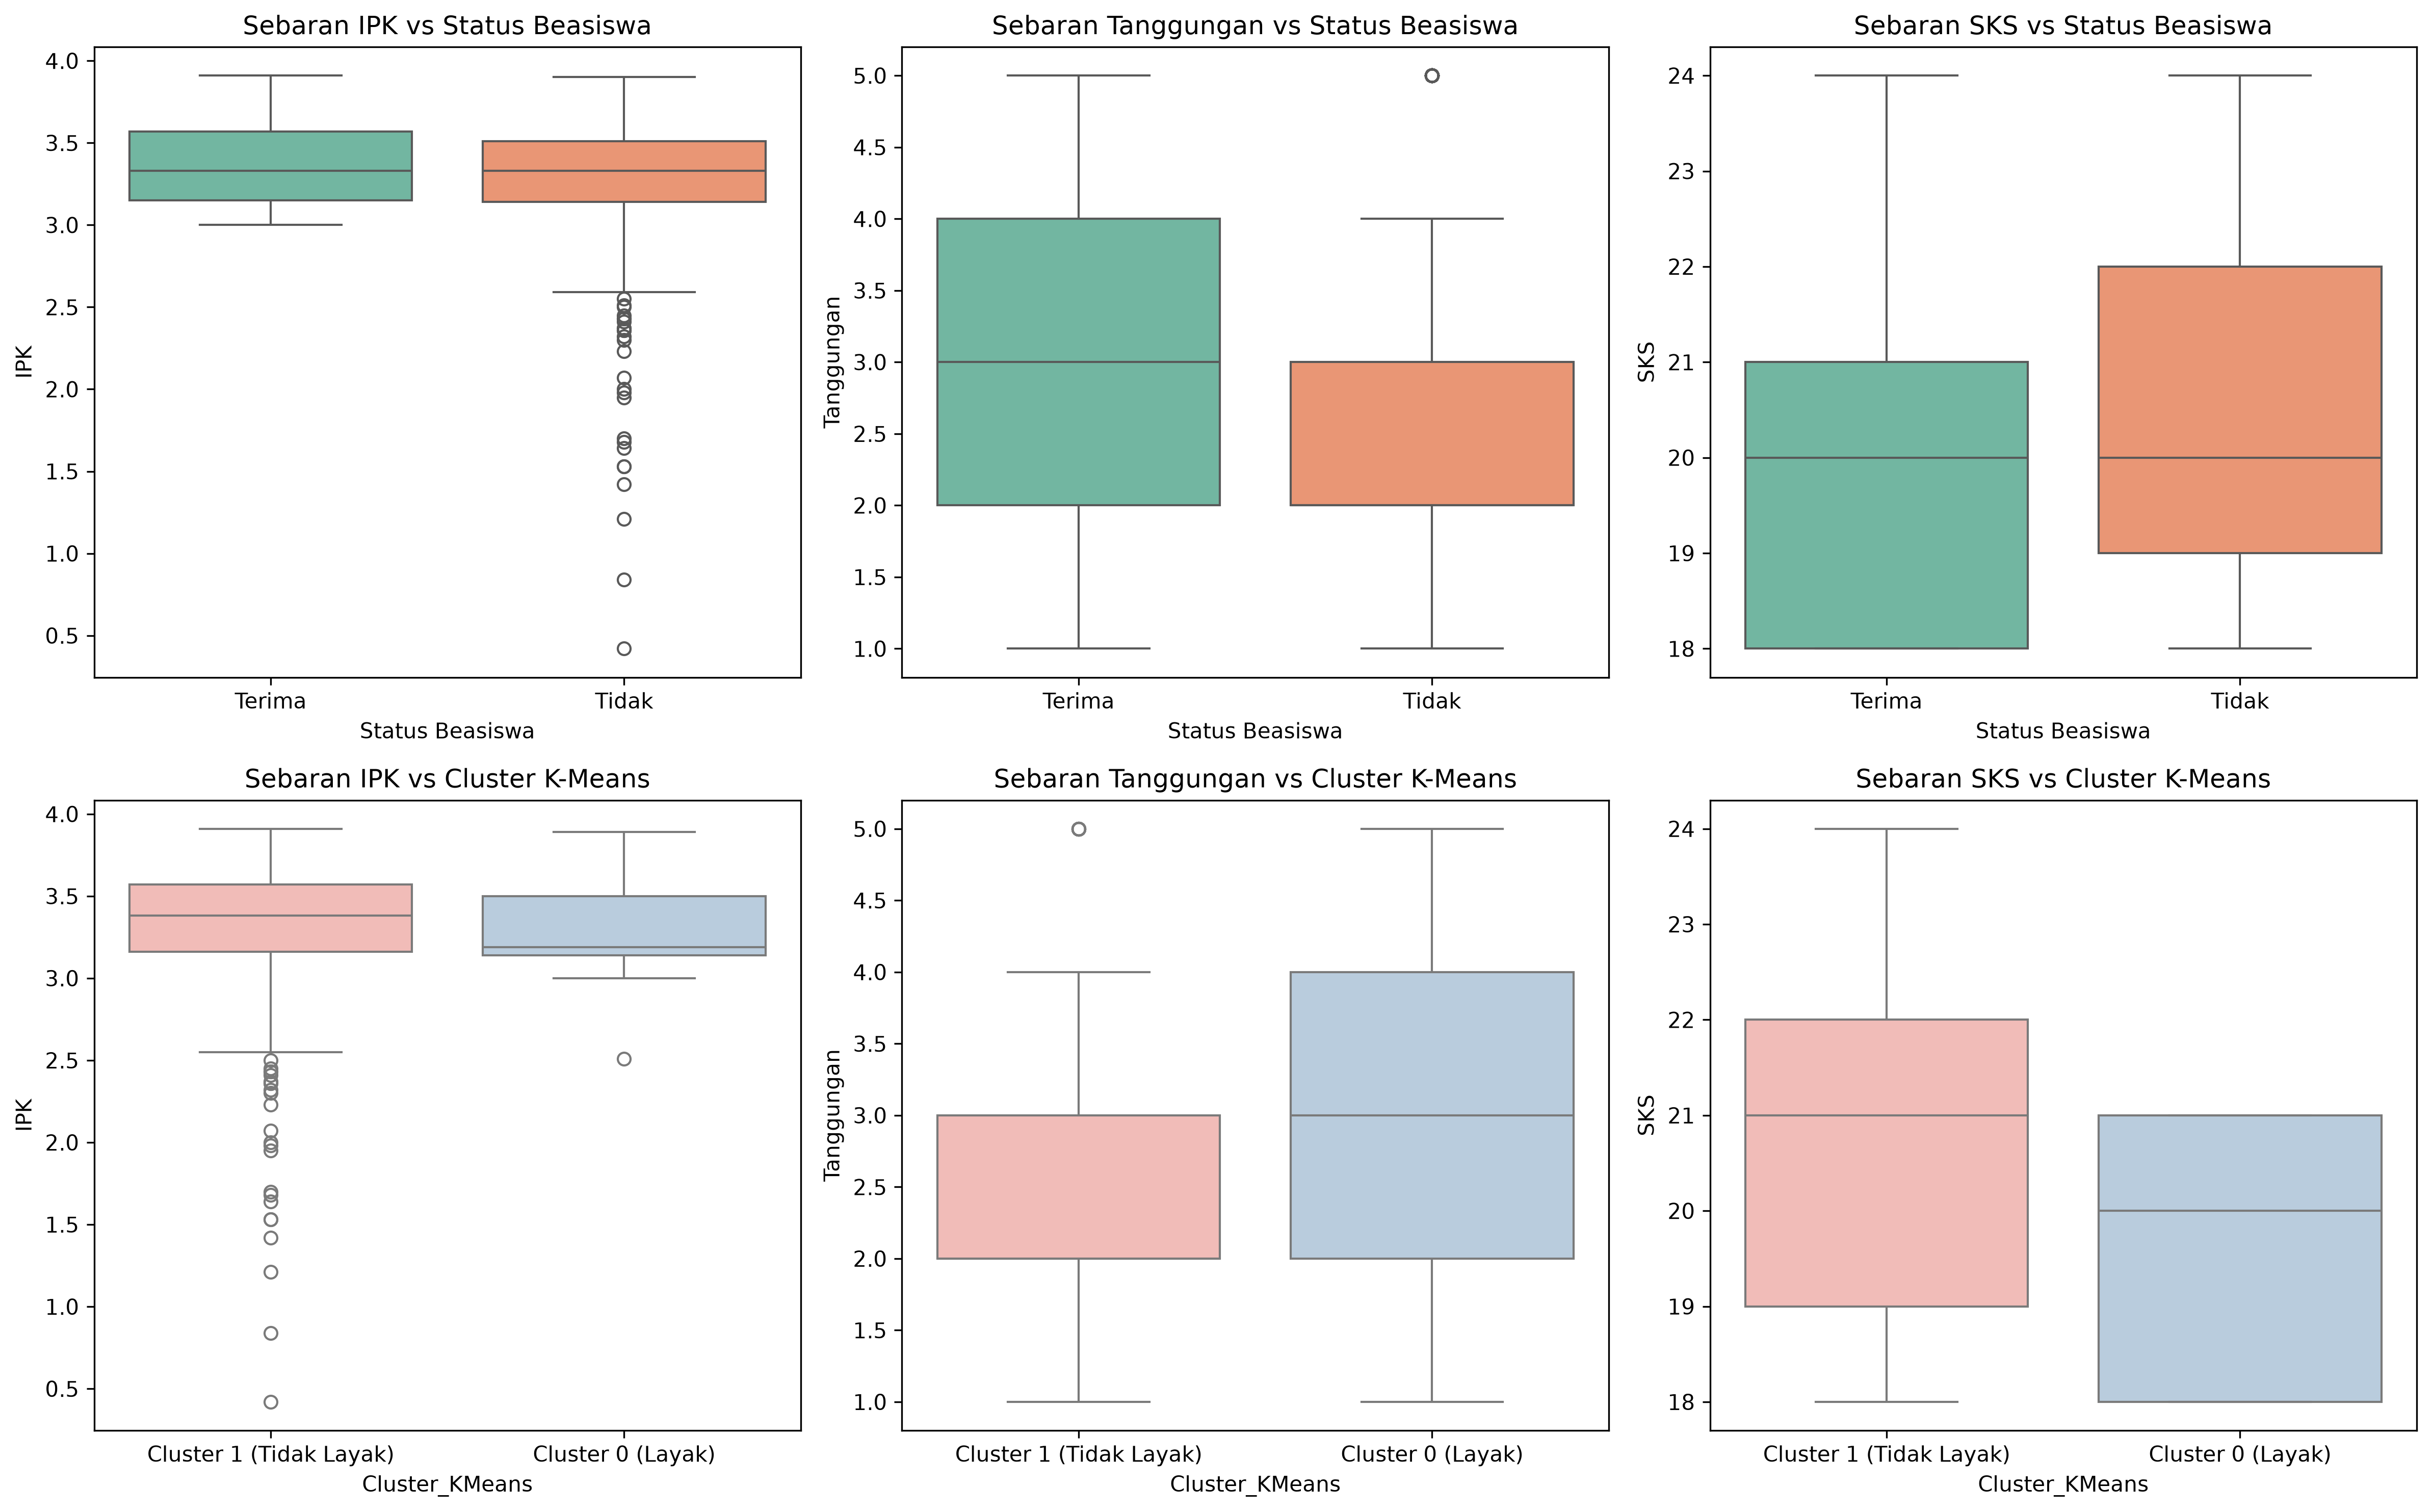
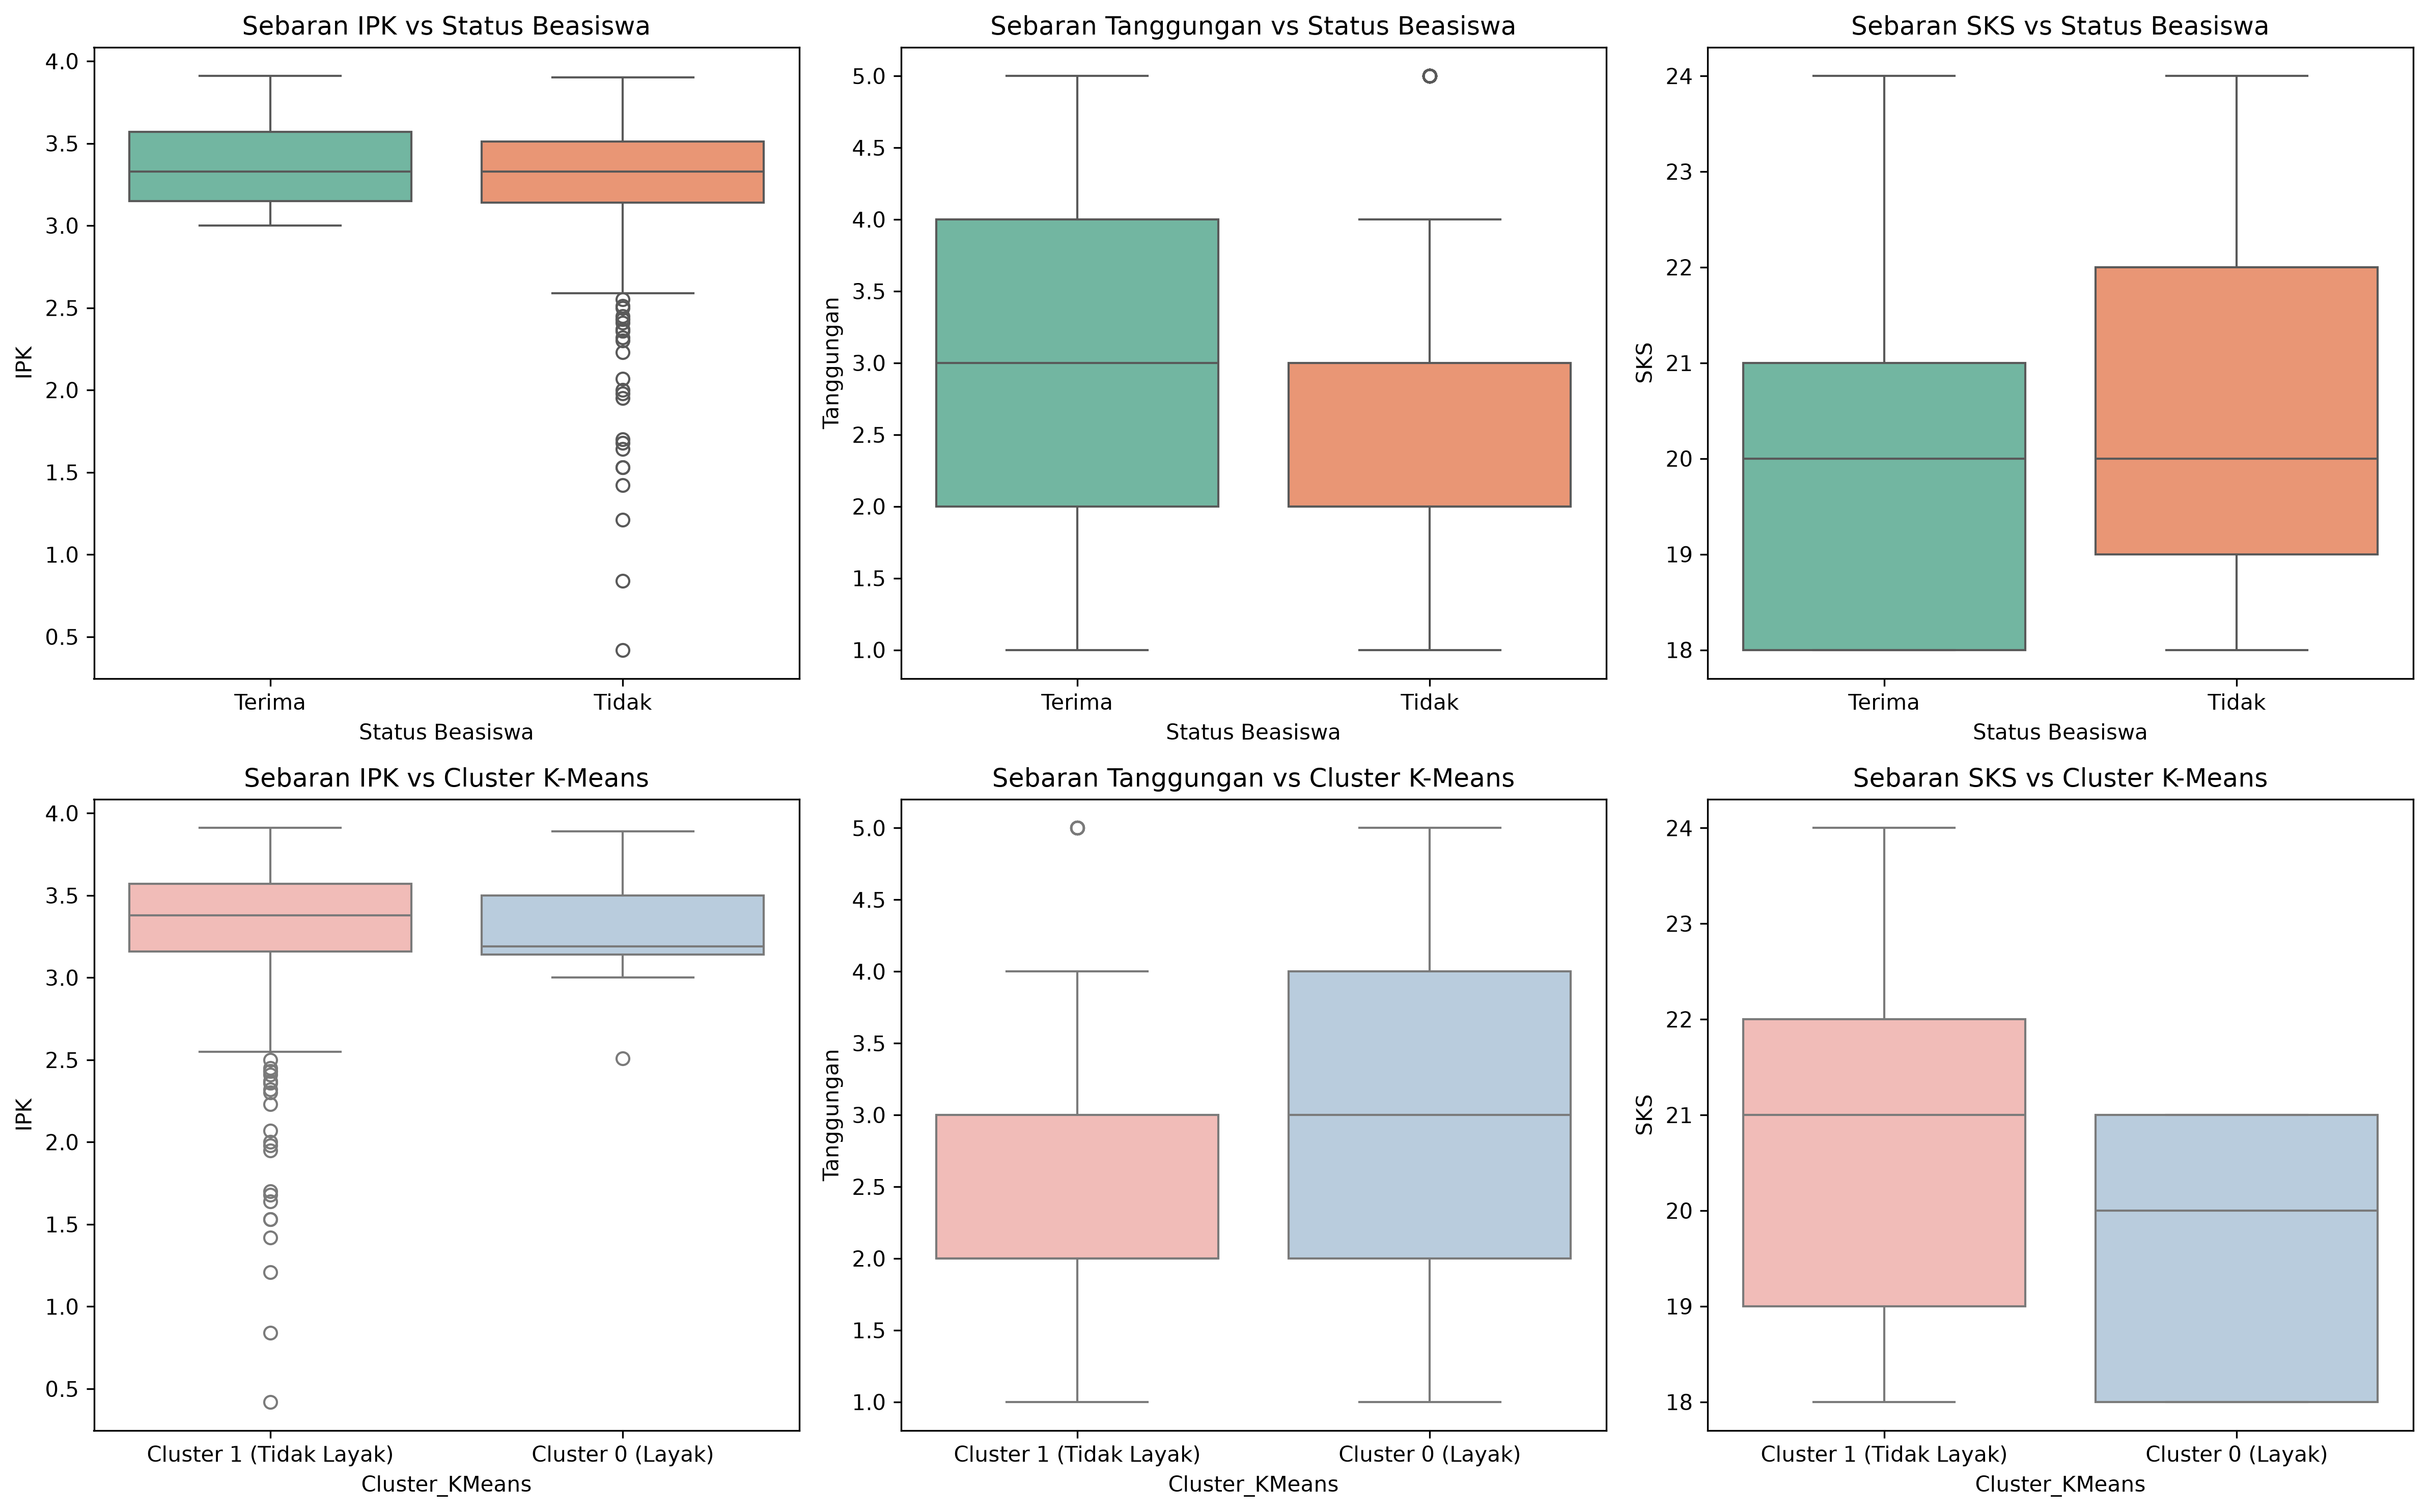
feat: finishing

diff --git a/app/app.py b/app/app.py
@@ -60,19 +60,28 @@ st.markdown("""
 @st.cache_resource
 def load_ml_components():
     model_path = 'models/best_model.pkl'
+    agglo_path = 'models/agglo_model.pkl'
     prep_path = 'models/preprocessing.pkl'
     
-    if not os.path.exists(model_path) or not os.path.exists(prep_path):
-        return None, None
-        
-    with open(model_path, 'rb') as f:
-        kmeans_model = pickle.load(f)
-    with open(prep_path, 'rb') as f:
-        preprocessing_data = pickle.load(f)
-        
-    return kmeans_model, preprocessing_data
+    kmeans_model = None
+    agglo_model = None
+    preprocessing_data = None
+    
+    if os.path.exists(prep_path):
+        with open(prep_path, 'rb') as f:
+            preprocessing_data = pickle.load(f)
+            
+    if os.path.exists(model_path):
+        with open(model_path, 'rb') as f:
+            kmeans_model = pickle.load(f)
+            
+    if os.path.exists(agglo_path):
+        with open(agglo_path, 'rb') as f:
+            agglo_model = pickle.load(f)
+            
+    return kmeans_model, agglo_model, preprocessing_data
 
-kmeans, prep = load_ml_components()
+kmeans, agglo, prep = load_ml_components()
 
 # App Header
 st.markdown("<h1 class='main-title'>🎓 Sistem Pendukung Keputusan Kelayakan Beasiswa</h1>", unsafe_allow_html=True)
@@ -89,6 +98,8 @@ menu = st.sidebar.radio(
 # Tampilkan warning jika model belum dilatih
 if kmeans is None or prep is None:
     st.warning("⚠️ File model (`models/best_model.pkl` & `models/preprocessing.pkl`) belum ditemukan. Silakan jalankan `python src/train_model.py` terlebih dahulu di terminal untuk melatih model.")
+elif agglo is None:
+    st.info("ℹ️ File model proxy Agglomerative (`models/agglo_model.pkl`) belum ditemukan. Silakan jalankan kembali `python src/train_model.py` jika ingin membandingkan model.")
 
 if menu == "Dashboard EDA":
     st.header("📊 Dashboard Analisis Eksploratif Data (EDA)")
@@ -179,32 +190,80 @@ elif menu == "Model Demo (Form Input)":
                 else:
                     encoded_input[col] = val
                     
-            data_encoded = pd.DataFrame([encoded_input])
+            data_encoded = pd.DataFrame([encoded_input])[fitur_kolom]
             
             # Scale
             data_scaled = scaler.transform(data_encoded)
             
             # Predict
-            pred_cluster = kmeans.predict(data_scaled)[0]
+            pred_kmeans = kmeans.predict(data_scaled)[0]
+            pred_agglo = agglo.predict(data_scaled)[0] if agglo is not None else None
             
             # Tampilkan Hasil
             st.subheader("🔍 Hasil Keputusan Model:")
-            if pred_cluster == 0:
-                st.success(f"🎉 Pendaftar **{nama}** dinyatakan **LAYAK (Cluster 0)** menerima beasiswa.")
-                st.markdown("""
-                * **Profil Klaster Kelayakan:**
-                  - IPK Rata-rata: ~3.32
-                  - Karakteristik Ekonomi: Tanggungan orang tua relatif banyak (rata-rata 3.16 anak), didominasi oleh penghasilan Rendah-Sedang.
-                  - Justifikasi: Memenuhi kriteria sosio-ekonomi prioritas dan batas aman akademik.
-                """)
+            
+            if pred_agglo is not None:
+                col_km, col_ag = st.columns(2)
+                
+                with col_km:
+                    st.markdown("### 🤖 K-Means Clustering (Optimal)")
+                    if pred_kmeans == 0:
+                        st.success(f"🎉 **{nama}** dinyatakan **LAYAK (Cluster 0)**")
+                        st.markdown("""
+                        * **Profil Klaster K-Means:**
+                          - IPK Rata-rata: ~3.32
+                          - Tanggungan: Banyak (rata-rata 3.16 anak)
+                          - Ekonomi: Rendah-Sedang
+                          - *Justifikasi:* Memenuhi prioritas sosio-ekonomi dan batas aman akademik.
+                        """)
+                    else:
+                        st.warning(f"⚠️ **{nama}** dinyatakan **TIDAK LAYAK (Cluster 1)**")
+                        st.markdown("""
+                        * **Profil Klaster K-Means:**
+                          - IPK Rata-rata: ~3.31
+                          - Tanggungan: Sedikit (rata-rata 2.20 anak)
+                          - Ekonomi: Sedang-Tinggi
+                          - *Justifikasi:* Tidak memenuhi kriteria prioritas ekonomi lemah.
+                        """)
+                        
+                with col_ag:
+                    st.markdown("### 📈 Agglomerative Clustering")
+                    if pred_agglo == 0:
+                        st.success(f"🎉 **{nama}** dinyatakan **LAYAK (Cluster 0)**")
+                        st.markdown("""
+                        * **Profil Klaster Agglomerative:**
+                          - IPK Rata-rata: ~3.34
+                          - Tanggungan: Banyak (rata-rata 2.90 anak)
+                          - Ekonomi: Menengah-Kebawah
+                          - *Justifikasi:* Profil spasial hirarkis menunjukkan beban tanggungan relatif berat.
+                        """)
+                    else:
+                        st.warning(f"⚠️ **{nama}** dinyatakan **TIDAK LAYAK (Cluster 1)**")
+                        st.markdown("""
+                        * **Profil Klaster Agglomerative:**
+                          - IPK Rata-rata: ~3.29
+                          - Tanggungan: Sedikit (rata-rata 2.23 anak)
+                          - Ekonomi: Menengah-Keatas
+                          - *Justifikasi:* Profil spasial hirarkis menunjukkan ekonomi lebih mandiri.
+                        """)
             else:
-                st.warning(f"⚠️ Pendaftar **{nama}** dinyatakan **TIDAK LAYAK (Cluster 1)** menerima beasiswa.")
-                st.markdown("""
-                * **Profil Klaster Kelayakan:**
-                  - IPK Rata-rata: ~3.31
-                  - Karakteristik Ekonomi: Tingkat ekonomi tergolong lebih mapan (penghasilan didominasi Sedang-Tinggi), tanggungan anak lebih sedikit (rata-rata 2.20 anak).
-                  - Justifikasi: Tidak memenuhi kriteria prioritas kemiskinan yang dipersyaratkan oleh pemberi beasiswa.
-                """)
+                # Fallback jika model Agglomerative belum dilatih
+                if pred_kmeans == 0:
+                    st.success(f"🎉 Pendaftar **{nama}** dinyatakan **LAYAK (Cluster 0)** menerima beasiswa.")
+                    st.markdown("""
+                    * **Profil Klaster Kelayakan:**
+                      - IPK Rata-rata: ~3.32
+                      - Karakteristik Ekonomi: Tanggungan orang tua relatif banyak (rata-rata 3.16 anak), didominasi oleh penghasilan Rendah-Sedang.
+                      - Justifikasi: Memenuhi kriteria sosio-ekonomi prioritas dan batas aman akademik.
+                    """)
+                else:
+                    st.warning(f"⚠️ Pendaftar **{nama}** dinyatakan **TIDAK LAYAK (Cluster 1)** menerima beasiswa.")
+                    st.markdown("""
+                    * **Profil Klaster Kelayakan:**
+                      - IPK Rata-rata: ~3.31
+                      - Karakteristik Ekonomi: Tingkat ekonomi tergolong lebih mapan (penghasilan didominasi Sedang-Tinggi), tanggungan anak lebih sedikit (rata-rata 2.20 anak).
+                      - Justifikasi: Tidak memenuhi kriteria prioritas kemiskinan yang dipersyaratkan oleh pemberi beasiswa.
+                    """)
     else:
         st.info("Silakan latih model terlebih dahulu untuk dapat menggunakan fitur prediksi ini.")
 

diff --git a/src/train_model.py b/src/train_model.py
@@ -91,6 +91,16 @@ def run_pipeline(raw_data_path='data/raw/dataset.csv', models_dir='models', proc
     cluster_labels_agglo = agglo.fit_predict(df_scaled)
     df_clean['Cluster_Agglomerative'] = cluster_labels_agglo
     
+    # Train proxy classifier for Agglomerative prediction on new data
+    from sklearn.neighbors import KNeighborsClassifier
+    agglo_proxy = KNeighborsClassifier(n_neighbors=3)
+    agglo_proxy.fit(df_scaled, cluster_labels_agglo)
+    
+    agglo_model_path = os.path.join(models_dir, 'agglo_model.pkl')
+    with open(agglo_model_path, 'wb') as f:
+        pickle.dump(agglo_proxy, f)
+    print(f"💾 Proxy model Agglomerative disimpan ke: {agglo_model_path}")
+    
     silhouette_agglo = silhouette_score(df_scaled, cluster_labels_agglo)
     db_agglo = davies_bouldin_score(df_scaled, cluster_labels_agglo)
     

diff --git a/reports/laporan_teknis.md b/reports/laporan_teknis.md
@@ -1,0 +1,103 @@
+# LAPORAN TEKNIS: PEMBELAJARAN MESIN
+## ANALISIS KESESUAIAN PENERIMA BEASISWA MENGGUNAKAN METODE CLUSTERING TERHADAP DATA GROUND TRUTH
+---
+* **Mata Kuliah:** Pembelajaran Mesin (Unsupervised Learning)
+* **Sifat:** Project (Capstone Project)
+* **Program Studi:** Teknik Informatika
+* **Tahun Akademik:** 2026
+
+---
+
+# 1. PENDAHULUAN DAN LATAR BELAKAR
+Dalam upaya pemerataan akses pendidikan, program beasiswa merupakan salah satu instrumen penting bagi perguruan tinggi untuk mendukung mahasiswa yang layak secara akademik maupun ekonomi. Namun, proses seleksi manual historis yang dilakukan oleh panitia seleksi sering kali menghadapi tantangan subjektivitas, inkonsistensi keputusan, serta bias manusia dalam melakukan penilaian berkas. Kriteria seleksi yang mencakup aspek akademik (seperti IPK dan SKS) serta aspek ekonomi (seperti penghasilan orang tua dan jumlah tanggungan) sering kali tidak ditimbang secara proporsional dan transparan. 
+
+Hal ini menyebabkan terjadinya ketidaksesuaian keputusan seleksi di lapangan, yang dapat dikategorikan menjadi dua jenis kesalahan utama:
+* **Salah Terima:** Pendaftar yang secara profil sosio-ekonomi tergolong mampu, namun dinyatakan diterima beasiswa karena faktor keunggulan akademik (IPK) yang sangat menonjol.
+* **Salah Tolak:** Pendaftar yang secara profil sosio-ekonomi sangat layak dibantu (penghasilan rendah & tanggungan banyak) dan memenuhi syarat batas aman akademik, namun dinyatakan ditolak akibat keterbatasan kuota atau bias subjektif panitia.
+
+Untuk mengatasi permasalahan tersebut, pendekatan data-driven dengan memanfaatkan pembelajaran mesin tanpa pengawasan (*unsupervised machine learning*) seperti clustering menjadi solusi objektif yang sangat relevan. Dengan mengabaikan label keputusan historis dan membiarkan algoritma mengelompokkan data pendaftar murni berdasarkan kemiripan profil kriteria mereka, kita dapat mengidentifikasi pola alami kelayakan pendaftar. Hasil pengelompokan objektif ini kemudian dibandingkan dengan keputusan aktual (*Ground Truth*) untuk mengekstrak anomali-anomali keputusan yang terjadi. Dengan mendeteksi dan menganalisis karakteristik pendaftar pada kelompok anomali tersebut, pihak manajemen universitas dapat mengevaluasi kebijakan seleksi dan membangun Sistem Pendukung Keputusan (DSS) yang lebih objektif dan tepat sasaran.
+
+---
+
+# 2. METODOLOGI (ALUR KERJA DAN TEKNIK YANG DIGUNAKAN)
+Penelitian ini menggunakan dataset riil berisi 1.043 pendaftar beasiswa dengan 10 kriteria analitik utama: `Jenis Kelamin`, `Jarak Tempat Tinggal kekampus (Km)`, `Tahun Lulus`, `SKS`, `Ikut Organisasi`, `Ikut UKM`, `IPK`, `Pekerjaan Orang Tua`, `Penghasilan`, dan `Tanggungan`.
+
+### 2.1 Alur Kerja Proyek (Workflow)
+Proses analisis dan pemodelan dilakukan secara terstruktur melalui tahapan berikut:
+1. **Pembersihan Data:** Menghapus kolom kosong, membuang data duplikat, dan melakukan imputasi *missing values* menggunakan median untuk fitur numerik serta modus untuk fitur kategorikal.
+2. **Feature Engineering:** Mengonversi data kategorikal teks menjadi numerik diskret menggunakan `LabelEncoder` dan melakukan standardisasi skala fitur menggunakan `StandardScaler` (z-score normalization) agar fitur dengan rentang nominal besar tidak mendominasi perhitungan jarak.
+3. **Penentuan Cluster Optimal:** Mengevaluasi jumlah klaster ($k$) terbaik menggunakan *Elbow Method* ( Within-Cluster Sum of Squares) dan Silhouette Score pada rentang $k \in [2, 10]$.
+4. **Pemodelan Clustering:** Menguji tiga algoritma klasterisasi (K-Means, Agglomerative Clustering, dan DBSCAN) untuk mengelompokkan kelayakan pendaftar.
+5. **Evaluasi dan Komparasi:** Memilih model terbaik berdasarkan metrik evaluasi internal, memetakan karakteristik klaster yang terbentuk (Layak vs Tidak Layak), dan membandingkannya terhadap keputusan aktual seleksi (*Ground Truth*) menggunakan *crosstab analysis* untuk mendeteksi anomali.
+
+### 2.2 Teknik dan Algoritma yang Digunakan
+* **K-Means Clustering:** Algoritma berbasis partisi yang meminimalkan variansi dalam klaster dengan mengelompokkan data ke centroid terdekat berdasarkan jarak Euclidean.
+* **Agglomerative Hierarchical Clustering:** Pendekatan klasterisasi hierarkis bottom-up yang secara rekursif menggabungkan klaster terdekat berdasarkan kriteria linkage Ward untuk meminimalkan variansi total.
+* **DBSCAN (Density-Based Spatial Clustering):** Algoritma berbasis kepadatan spasial yang memisahkan area padat dari area renggang (noise) menggunakan parameter epsilon (`eps`) dan minimum points (`min_samples`).
+
+---
+
+# 3. HASIL DAN ANALISIS
+Bagian ini memaparkan hasil eksperimen pemodelan clustering, karakteristik klaster, serta temuan kasus anomali seleksi.
+
+### 3.1 Penentuan Jumlah Klaster Optimal
+Berdasarkan grafik Elbow Method dan evaluasi Silhouette Score, pembagian data pendaftar beasiswa secara alami paling optimal jika dibagi menjadi **2 klaster (k=2)**, yang merepresentasikan kelompok "Layak" dan "Tidak Layak".
+
+![Elbow Method](/app/assets/elbow_method.png)
+*Gambar 1: Evaluasi Elbow Method dan Silhouette Score untuk rentang klaster 2-10*
+
+### 3.2 Perbandingan Performa Algoritma
+Ketiga model diuji pada data yang telah distandardisasi dengan hasil sebagai berikut:
+
+| Metode Clustering | Silhouette Score | Davies-Bouldin Index | Keterangan |
+| :--- | :---: | :---: | :--- |
+| **K-Means (k=2)** | **0.1878** | **2.1339** | **Model Terbaik (Dipilih)** |
+| **Agglomerative (k=2)** | 0.1381 | 2.3658 | Performa di bawah K-Means |
+| **DBSCAN (eps=2.5, min=5)** | 0.0000 | - | Terlalu sensitif (1 cluster dominan & 11 noise) |
+
+Model **K-Means dengan k=2** terpilih sebagai model terbaik karena menghasilkan Silhouette Score tertinggi (0.1878) dan Davies-Bouldin Index terendah (2.1339), yang menunjukkan pembagian klaster yang paling tegas dan konsisten.
+
+### 3.3 Karakteristik Klaster Kelayakan
+Berdasarkan nilai rata-rata fitur pada kedua klaster yang terbentuk:
+* **Cluster 0 (LAYAK):** Memiliki rata-rata IPK 3.32, persentase ekonomi rendah yang signifikan (33.25%), serta beban keluarga tinggi dengan rata-rata tanggungan orang tua sebanyak **3.16 anak**.
+* **Cluster 1 (TIDAK LAYAK):** Memiliki rata-rata IPK 3.31, profil ekonomi yang lebih mapan (hanya 20.48% ekonomi rendah), serta rata-rata tanggungan yang sedikit yaitu **2.20 anak**.
+
+### 3.4 Komparasi Terhadap Ground Truth dan Analisis Anomali
+Hasil clustering K-Means dibandingkan dengan keputusan seleksi aktual (*Ground Truth*) menggunakan tabel silang (*crosstab*):
+
+| Kategori Analisis | K-Means: Cluster 0 (Layak) | K-Means: Cluster 1 (Tidak Layak) | Total |
+| :--- | :---: | :---: | :---: |
+| **Ground Truth: Terima Beasiswa** | **202** (Benar: Terima) | **70** (Salah Terima / Anomali) | **272** |
+| **Ground Truth: Tidak Terima** | **216** (Salah Tolak / Anomali) | **555** (Benar: Tolak) | **771** |
+| **Total** | **418** | **625** | **1.043** |
+
+Ditemukan sebanyak **286 kasus anomali (27.4%)** dari total 1.043 pendaftar. Anomali ini dikategorikan menjadi dua jenis:
+1. **Kasus Salah Terima (70 Pendaftar):** Kelompok ini secara profil sosio-ekonomi mampu (tanggungan sedikit, penghasilan orang tua tinggi), namun lolos secara aktual karena panitia memprioritaskan IPK yang sangat tinggi (rata-rata 3.51).
+2. **Kasus Salah Tolak (216 Pendaftar):** Kelompok ini memiliki beban ekonomi terberat (penghasilan rendah, tanggungan banyak), dengan IPK yang masih di atas batas aman akademik (rata-rata 3.30). Mereka tereliminasi oleh seleksi manual, kemungkinan besar akibat keterbatasan kuota atau bias subjektif panitia.
+
+![Visualisasi Anomali](/app/assets/visualisasi_anomali.png)
+*Gambar 2: Sebaran Distribusi Kasus Anomali Keputusan Seleksi*
+
+### 3.5 Validasi Stabilitas Model
+Untuk membuktikan validitas ilmiah, dilakukan **Uji Stabilitas Klaster menggunakan metode Split-Sample**. Data dipecah secara acak menjadi dua bagian (50-50), lalu model dilatih kembali secara terpisah. Hasilnya menunjukkan pergeseran koordinat pusat klaster (centroid) maksimal hanya sebesar **5.7%**. Hal ini menunjukkan bahwa klaster kelayakan yang dihasilkan oleh model K-Means sangat stabil, konsisten, dan bukan merupakan pola acak.
+
+---
+
+# 4. KESIMPULAN DAN REKOMENDASI
+### 4.1 Kesimpulan
+1. Pemodelan clustering menggunakan algoritma K-Means ($k=2$) berhasil mengelompokkan data pendaftar beasiswa secara objektif menjadi dua tingkat kelayakan (Layak vs Tidak Layak) berdasarkan multikriteria akademik dan ekonomi.
+2. Ditemukan tingkat inkonsistensi keputusan seleksi manual historis sebesar **27.4% (286 pendaftar)** jika dibandingkan dengan pengelompokan objektif model.
+3. Kasus anomali didominasi oleh kasus **Salah Tolak (216 pendaftar)** dibandingkan kasus **Salah Terima (70 pendaftar)**, yang menunjukkan bahwa sistem seleksi manual historis cenderung mengabaikan pendaftar ekonomi lemah demi mengejar pendaftar ber-IPK sangat tinggi, atau terhambat kuota.
+
+### 4.2 Rekomendasi
+1. **Penerapan Sistem Pendukung Keputusan (DSS):** Kampus disarankan mengintegrasikan model K-Means ini sebagai penyaring tahap awal (*automated pre-screening*) pendaftar beasiswa untuk mendeteksi pendaftar yang secara data sangat diprioritaskan.
+2. **Penyeimbangan Bobot Seleksi:** Mengkaji ulang kriteria pembobotan panitia seleksi agar aspek sosio-ekonomi dan aspek akademik dinilai secara berimbang dan proporsional.
+3. **Audit Keputusan Berkala:** Memanfaatkan daftar hasil ekstraksi anomali untuk melakukan verifikasi lapangan (*field audit*) guna meminimalisir salah sasaran alokasi dana bantuan pendidikan di masa depan.
+
+---
+
+# 5. REFERENSI
+1. Han, J., Kamber, M., & Jian, P. (2012). *Data Mining: Concepts and Techniques*. Morgan Kaufmann.
+2. Pedregosa, F., et al. (2011). Scikit-learn: Machine Learning in Python. *Journal of Machine Learning Research*, 12, 2825-2830.
+3. Rousseeuw, P. J. (1987). Silhouettes: a graphical aid to the interpretation and validation of cluster analysis. *Journal of Computational and Applied Mathematics*, 20, 53-65.
+4. Davies, D. L., & Bouldin, D. W. (1979). A cluster separation measure. *IEEE Transactions on Pattern Analysis and Machine Intelligence*, PAMI-1(2), 224-227.

diff --git a/nama.md b/nama.md
@@ -1,0 +1,3 @@
+# Alif Zulfanur
+# A11.2024.15582
+# Analisis Kesesuaian Penerima Beasiswa Menggunakan Metode Clustering Terhadap Data Ground Truth

diff --git a/reports/final_report.md b/reports/final_report.md
@@ -156,7 +156,7 @@ Berikut adalah perbandingan performa ketiga model yang diuji:
 ### 3.4 Visualisasi Hasil Evaluasi
 Untuk mengevaluasi kualitas cluster terhadap Ground Truth (keputusan aktual beasiswa), kami menggunakan **Confusion Matrix** (`confusion_matrix.png`):
 
-![Confusion Matrix](confusion_matrix.png)
+![Confusion Matrix](/app/assets/confusion_matrix.png)
 * *Insight dari Confusion Matrix:* K-Means ($k=2$) menunjukkan kecocokan yang kuat dengan keputusan asli pada kelompok penolakan beasiswa (555 data terklasifikasi benar sebagai tidak layak/ditolak). Namun, terdapat sebaran anomali yang jelas pada kuadran cross-tabulation.
 
 ### 3.5 Pemilihan Model Terbaik dan Justifikasi